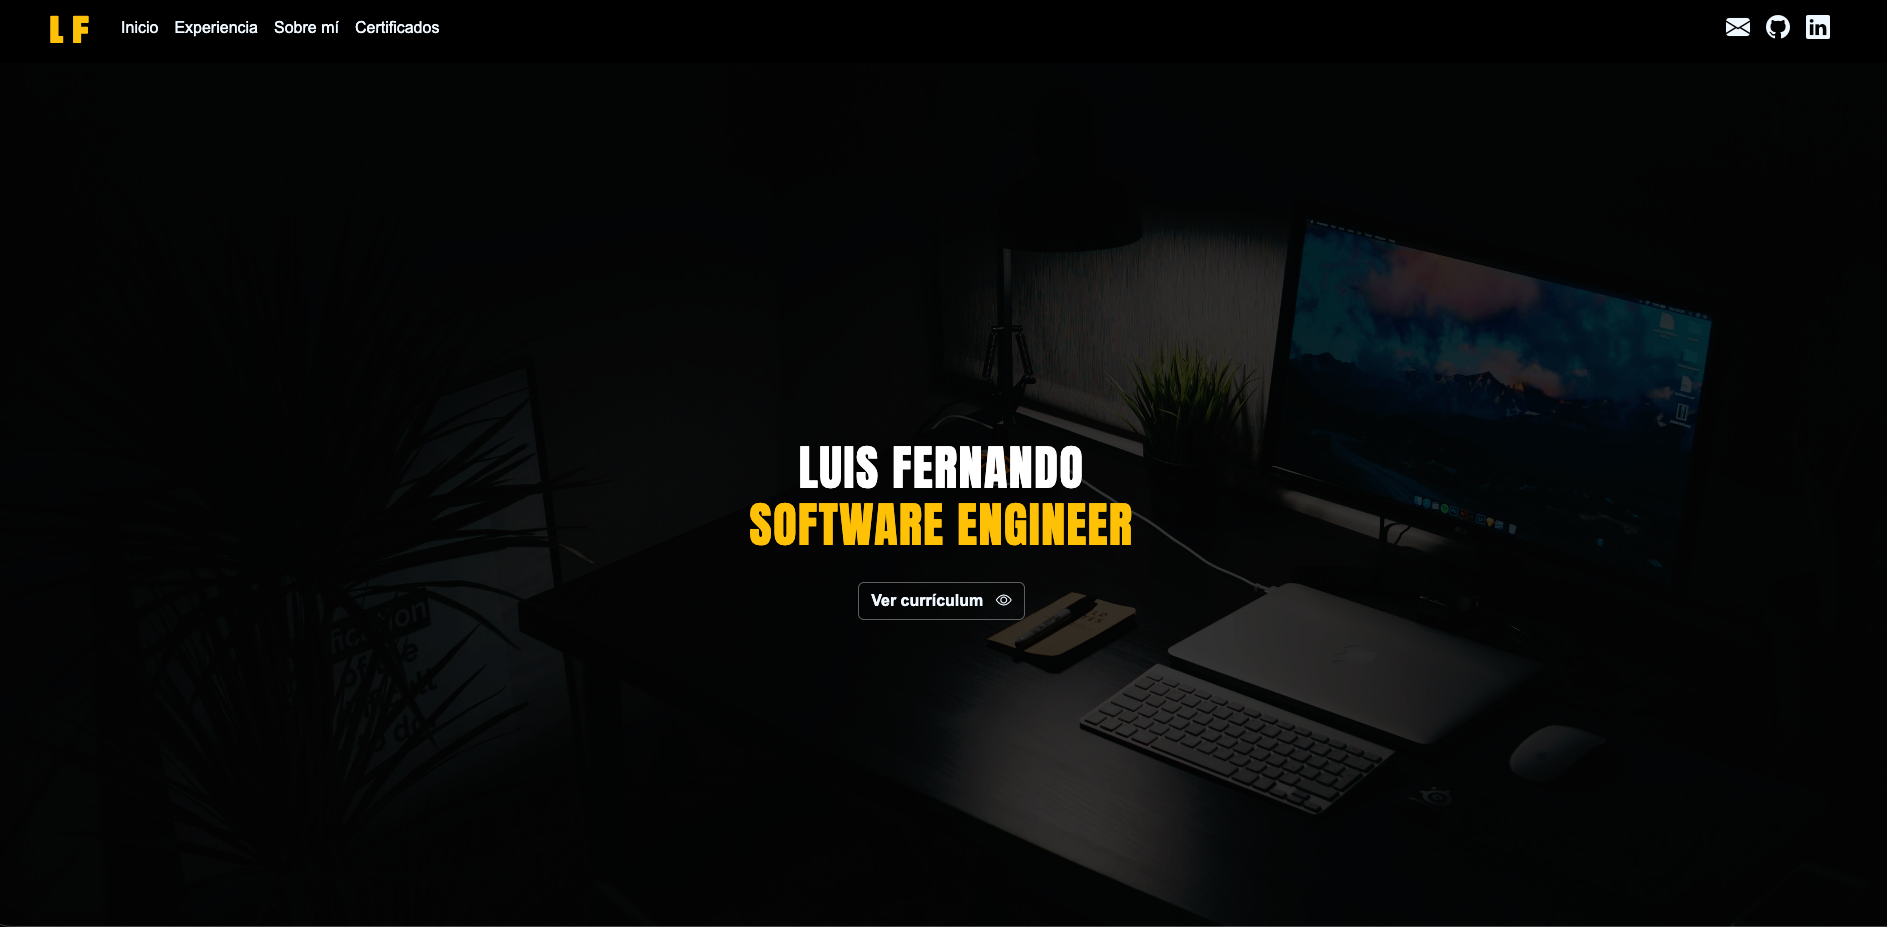
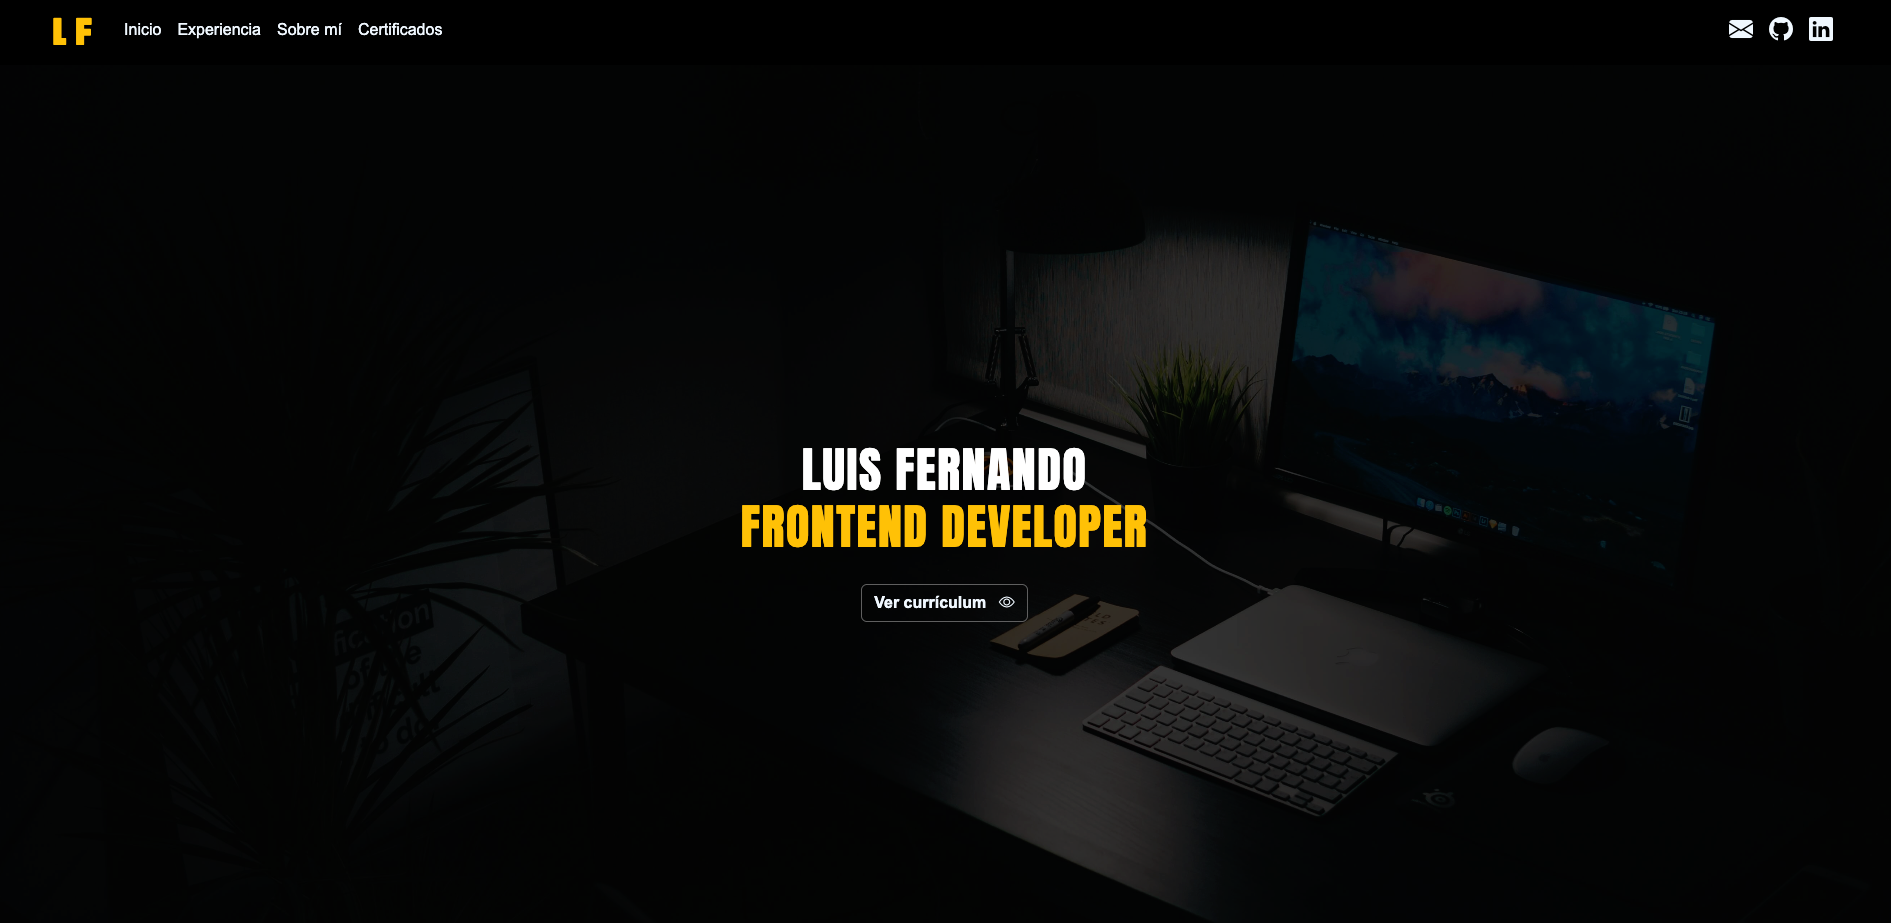
cambiando img de readme y texto del header

diff --git a/src/components/Header/Header.jsx b/src/components/Header/Header.jsx
@@ -12,7 +12,7 @@ const Header = () => {
         </span>
         <br />
         <span className="m-0"> 
-          <span className="colorTitle">Software Engineer</span>
+          <span className="colorTitle">Frontend Developer</span>
         </span>
       </h2>
       <div className="containerBtn color-white">
